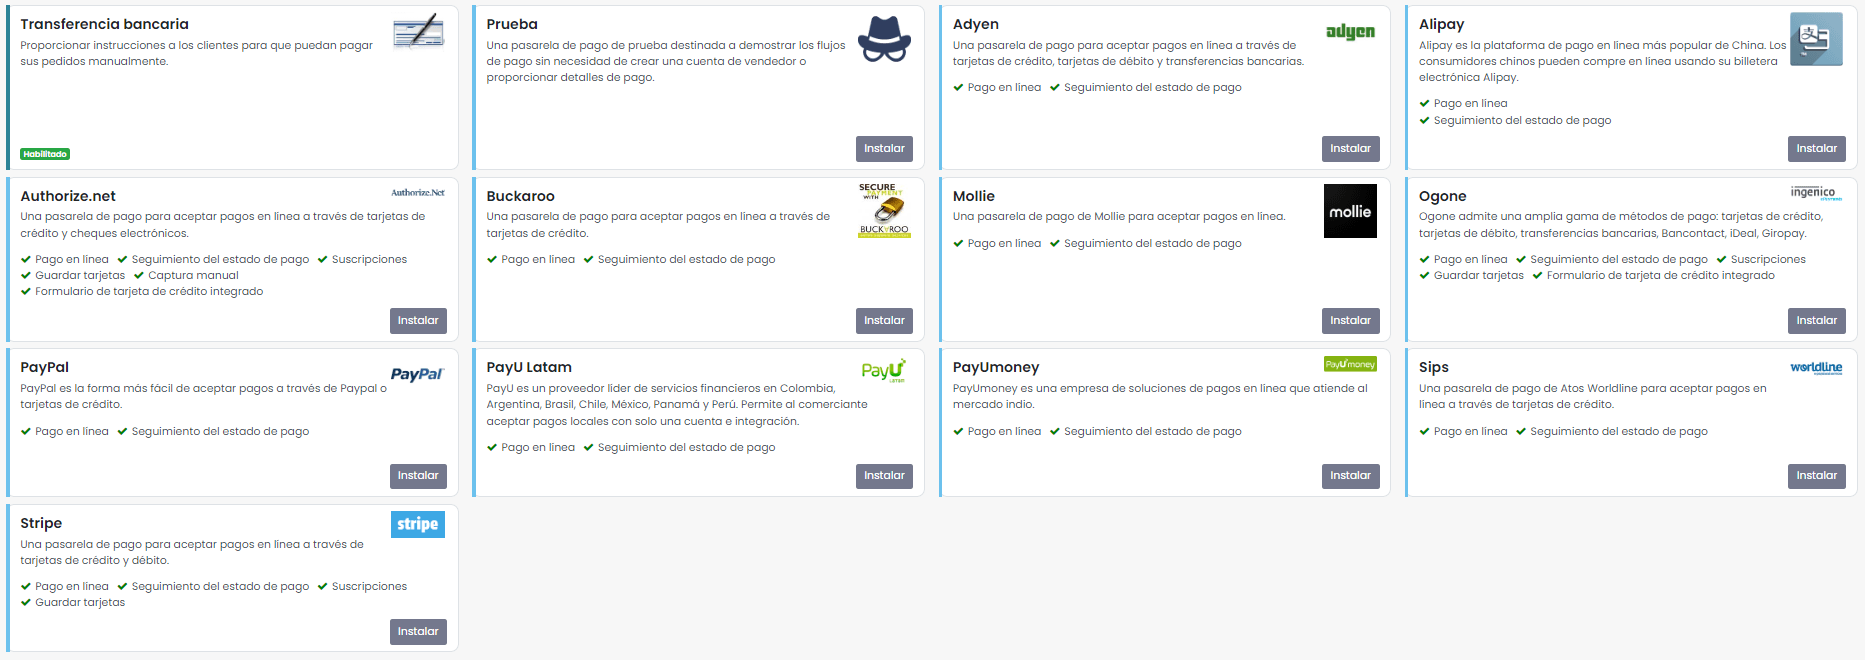
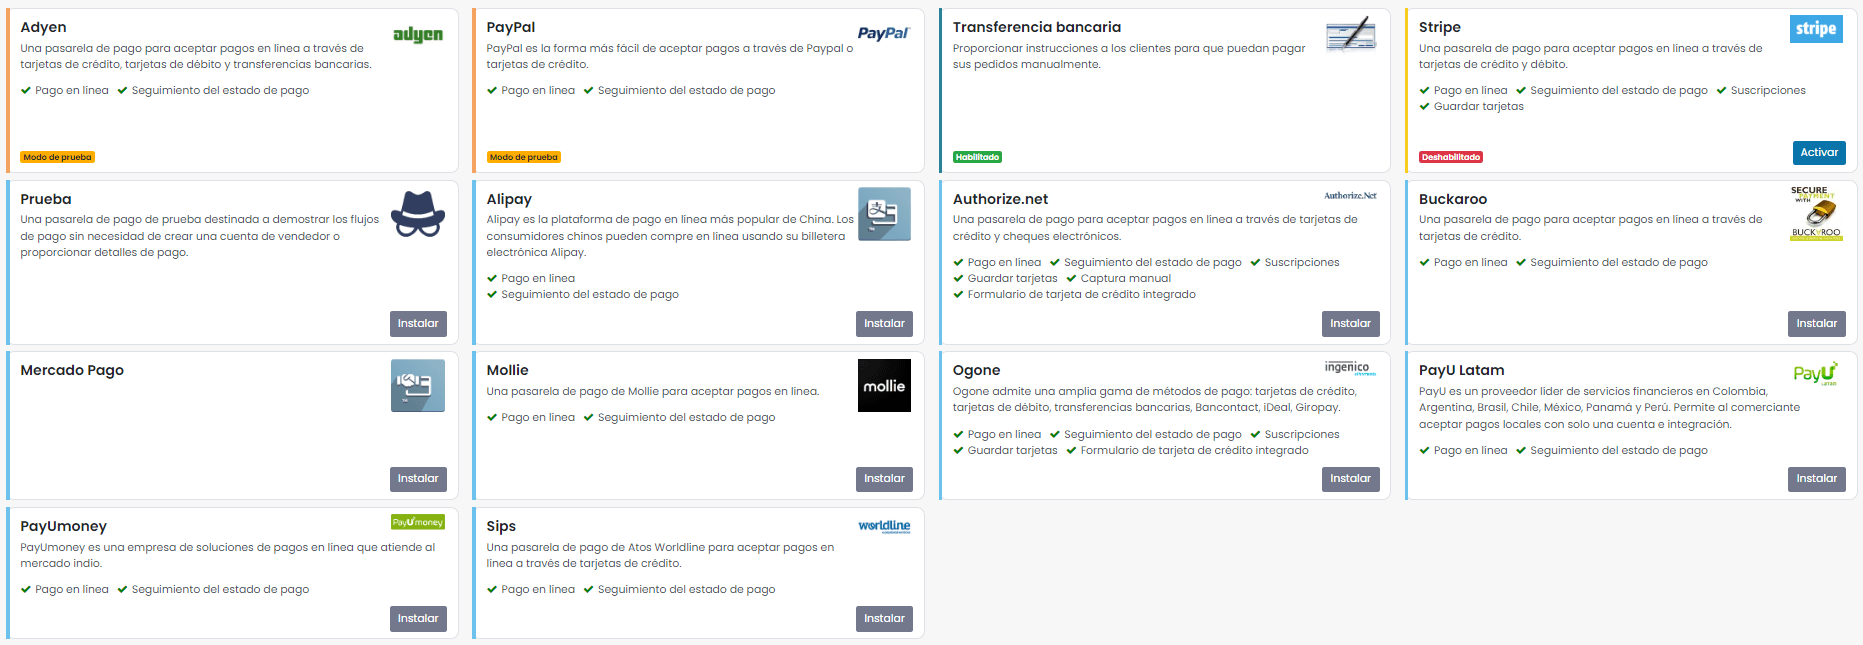
[ADD] ecommerce: new payment acquirer mercado pago

diff --git a/content/aplicaciones/sitios_web/ecommerce/metodos_pago.rst b/content/aplicaciones/sitios_web/ecommerce/metodos_pago.rst
@@ -27,6 +27,8 @@ Los métodos de pago disponibles en Daeris son los siguientes:
 
 -  **Buckaroo**: Pasarela de pagos que acepta pagos online a través de tarjetas de crédito.
 
+-  **Mercado Pago**: Pasarela de pagos digitales para Latinoamérica.
+
 -  **Mollie**: Pasarela de pago de Mollie para aceptar pagos en línea.
 
 -  **Ogone**: Servicios de pago Ingenico (anteriormente Ogone) admite tarjetas de crédito, tarjetas de débito y
